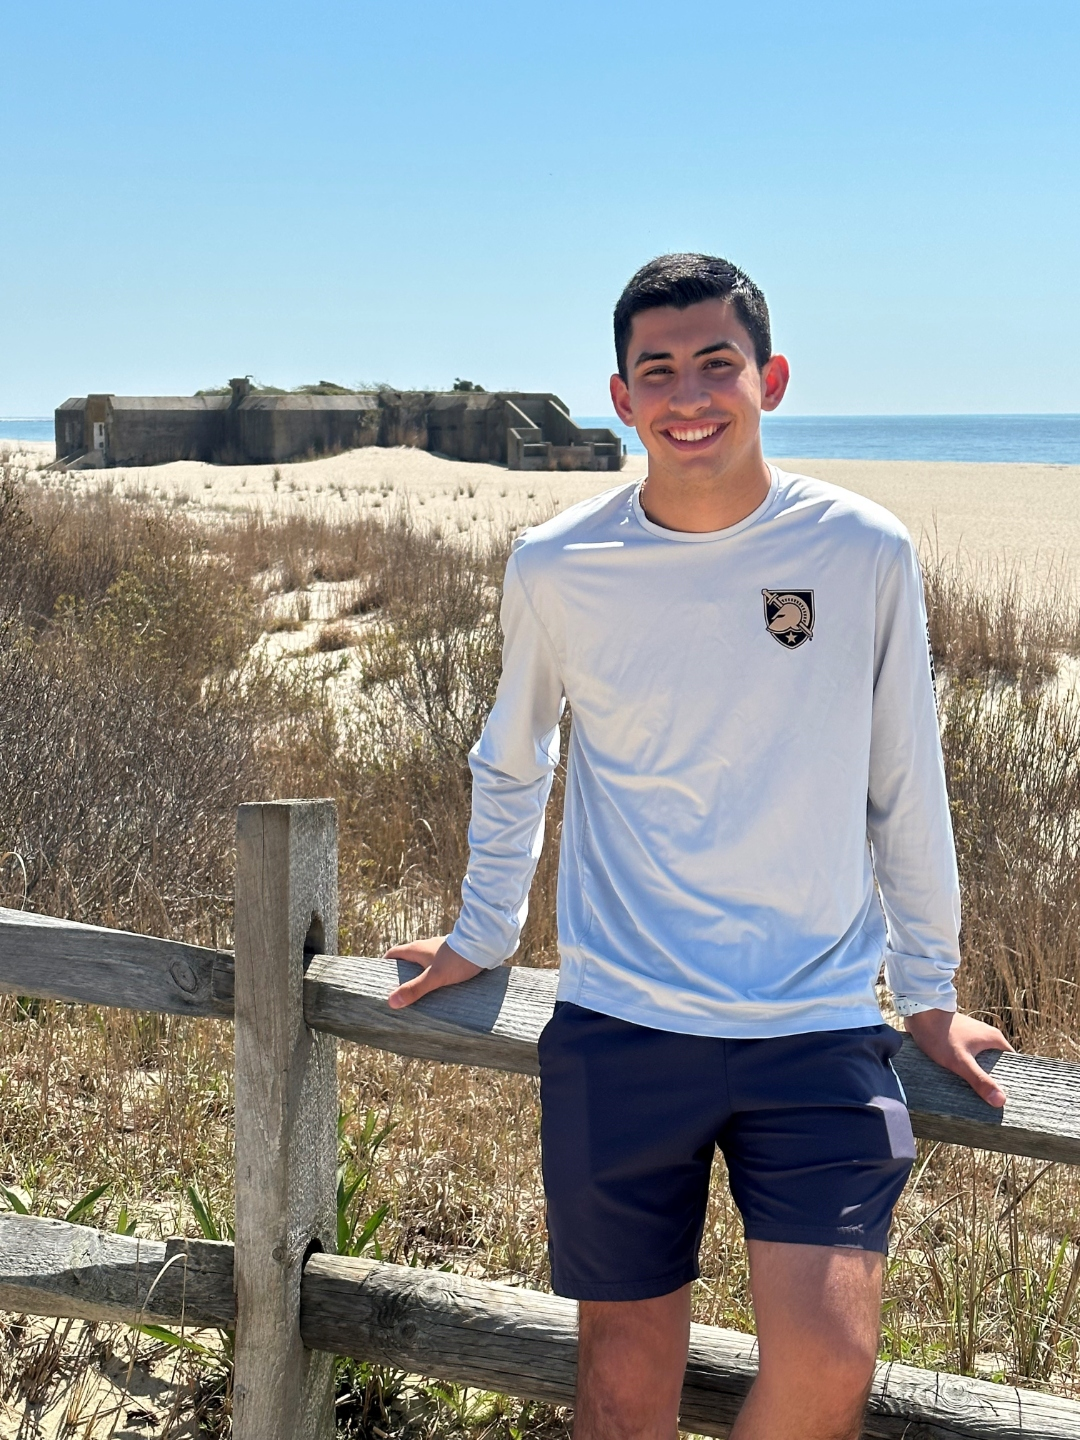
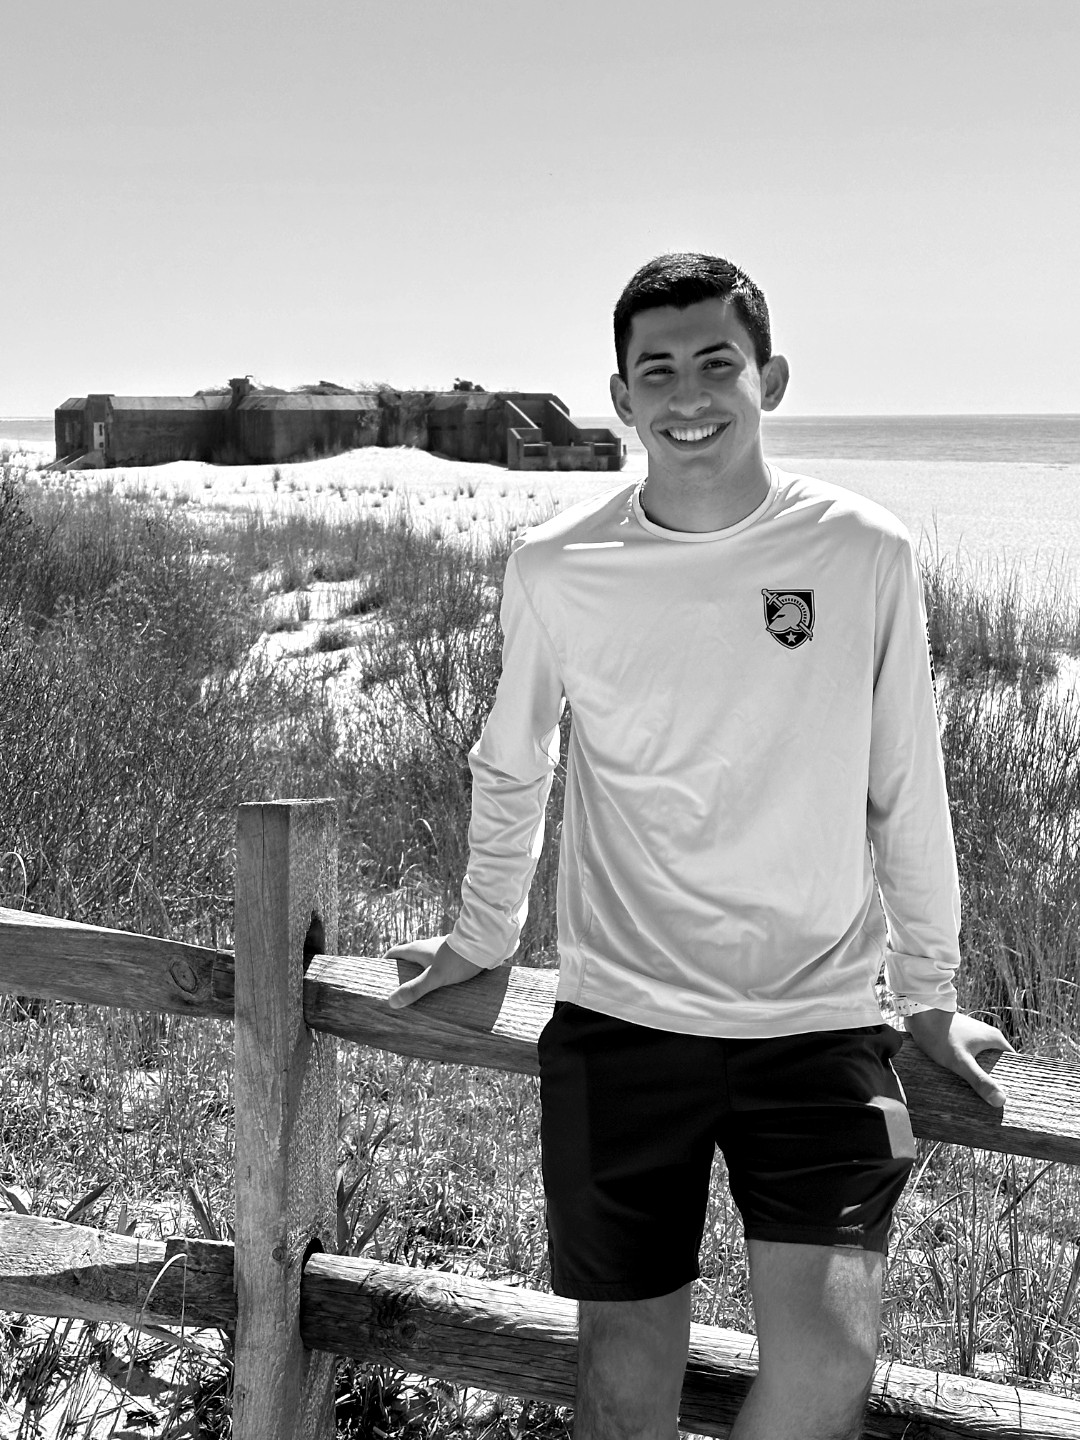
Add black-and-white photo gallery to my page

diff --git a/people/joseph-moran/index.html b/people/joseph-moran/index.html
@@ -320,6 +320,22 @@ footer {
       <img src="photo-longisland.jpg" alt="Joseph Moran on a beach near Fort Tilden, dressed in Army gear">
       <figcaption>home turf &mdash; Long Island, NY</figcaption>
     </figure>
+    <figure>
+      <img src="camo-training.jpg" alt="Joseph Moran and two classmates in field uniform with camouflage face paint">
+      <figcaption>field training, game face on</figcaption>
+    </figure>
+    <figure>
+      <img src="parade-uniform.jpg" alt="Joseph Moran in full dress uniform with a classmate at a night parade">
+      <figcaption>full dress, night parade</figcaption>
+    </figure>
+    <figure>
+      <img src="cowboy-hats.jpg" alt="Joseph Moran and two friends wearing cowboy hats">
+      <figcaption>hat day with the crew</figcaption>
+    </figure>
+    <figure>
+      <img src="family-graduation.jpg" alt="Joseph Moran with his family at a graduation">
+      <figcaption>graduation day, the whole crew</figcaption>
+    </figure>
   </div>
 
   <p class="prompt"><span class="u">jmoran</span>@<span class="h">rogue-quant-lab</span>:<span class="p">~</span>$ <span class="c">cat contact.yml</span></p>
